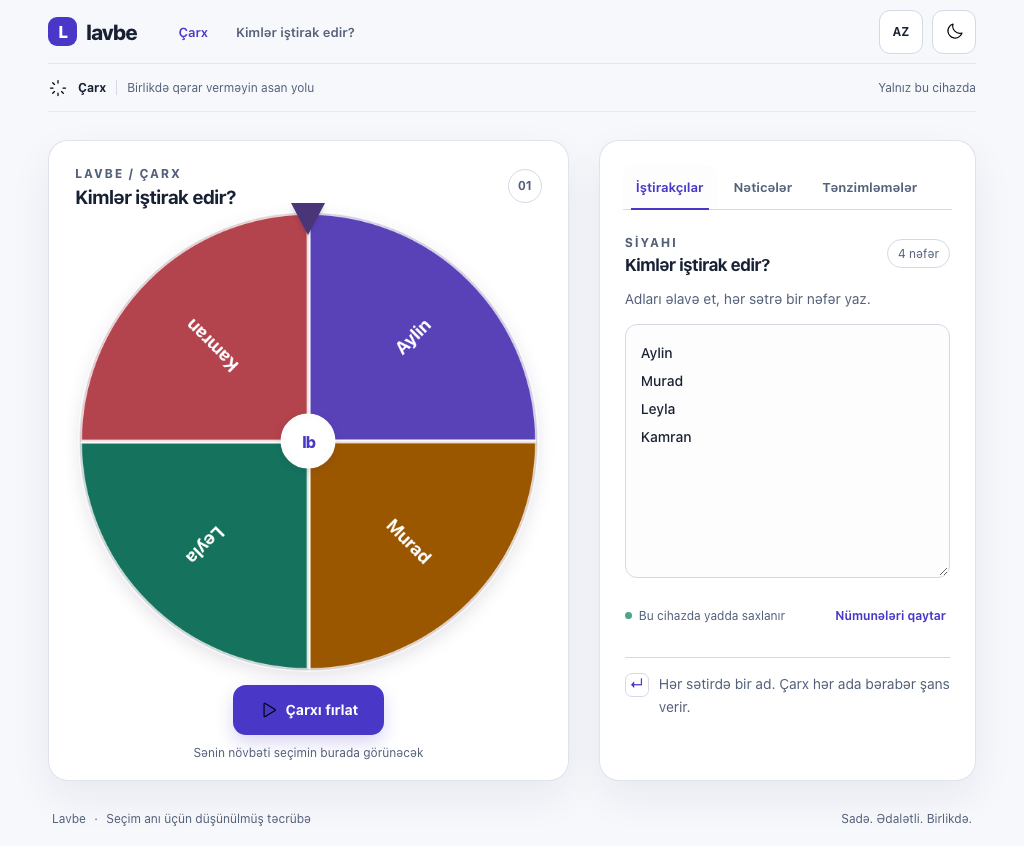
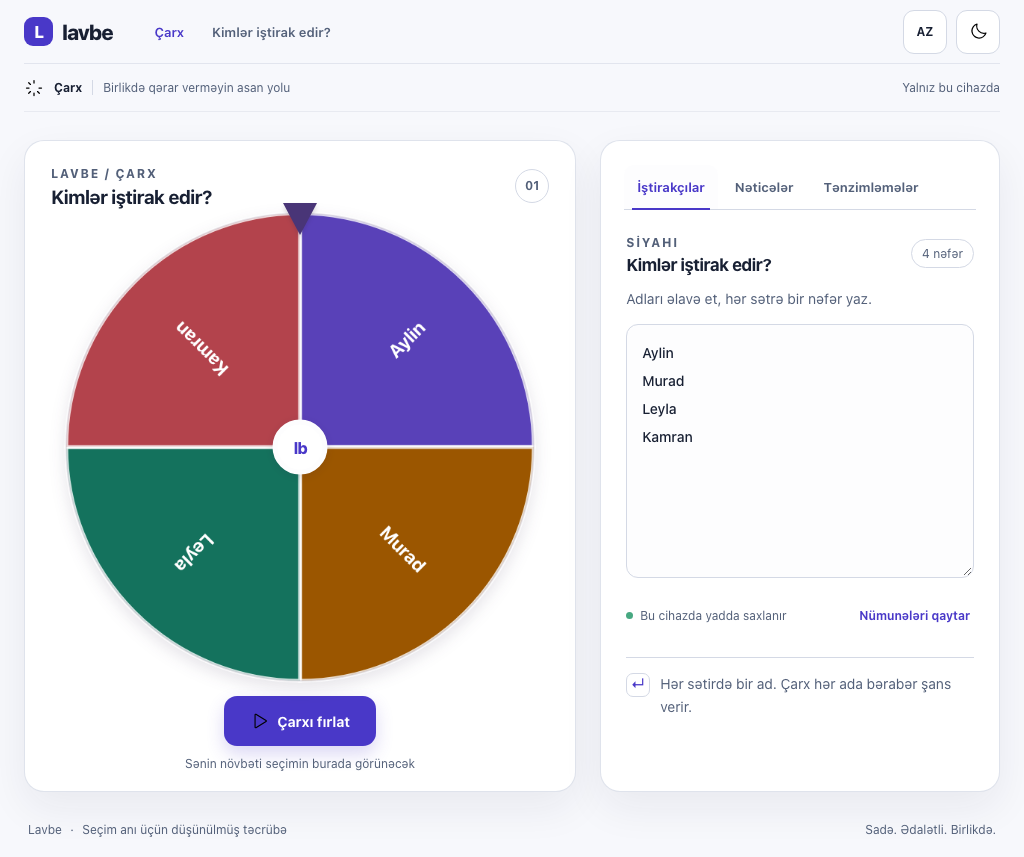
fix: preserve tablet landscape workspace ratio

diff --git a/apps/web/src/styles/global.css b/apps/web/src/styles/global.css
@@ -2,7 +2,7 @@
 :root[data-theme="dark"]{--canvas-token:#10131E;--surface-token:#1B2132;--text-token:#F2F4FC;--muted-token:#B8C2D8;--primary-token:#B6ACFF;--on-primary:#18113C;--border-token:#46516B;--focus-token:#AFCBFF;--soft:#222a3d;--shadow:0 16px 42px rgba(0,0,0,.2);color-scheme:dark}
 *{box-sizing:border-box}body{margin:0;min-width:320px;min-height:100vh;background:var(--canvas);color:var(--ink);transition:background .16s,color .16s}.shell{max-width:1280px;margin:auto;padding:0 48px}.topbar{height:64px;display:flex;align-items:center;border-bottom:1px solid color-mix(in srgb,var(--line) 60%,transparent);gap:42px}.brand{text-decoration:none;color:var(--ink);font-weight:800;letter-spacing:-.8px;font-size:21px;display:flex;align-items:center;gap:9px}.brand-mark{width:29px;height:29px;border-radius:9px;display:grid;place-items:center;color:#fff;background:#4938c8;font-size:17px;font-weight:800}.topbar nav{display:flex;align-items:center;gap:28px;flex:1}.topbar nav a{font-size:13px;text-decoration:none;color:var(--muted);font-weight:600}.topbar nav .nav-active{color:var(--primary)}.header-actions{display:flex;align-items:center;gap:9px}.locale,.theme-toggle{height:44px;min-width:44px;border:1px solid var(--line);border-radius:11px;background:var(--surface);color:var(--ink);display:grid;place-items:center;font-size:12px;font-weight:700}.theme-toggle{cursor:pointer;font-size:19px}.tool-strip{height:48px;display:flex;align-items:center;gap:10px;border-bottom:1px solid color-mix(in srgb,var(--line) 45%,transparent);color:var(--muted);font-size:12px}.tool-icon{color:var(--primary);font-size:19px}.tool-name{font-weight:700;color:var(--ink)}.tool-caption{padding-left:10px;border-left:1px solid var(--line)}.tool-presence{margin-left:auto;display:flex;align-items:center;gap:7px;font-size:12px}.live-dot,.save-dot{width:7px;height:7px;border-radius:50%;background:#47a881;display:inline-block}.workspace-grid{display:grid;grid-template-columns:minmax(0,1.08fr) minmax(340px,.92fr);gap:30px;align-items:stretch;padding:28px 0 30px;min-height:calc(100vh - 180px)}.wheel-panel,.participant-panel{border:1px solid color-mix(in srgb,var(--line) 75%,transparent);border-radius:20px;background:var(--surface);box-shadow:var(--shadow)}.wheel-panel{display:flex;align-items:center;flex-direction:column;padding:22px 26px 17px}.wheel-heading{width:100%;display:flex;align-items:center;justify-content:space-between}.section-kicker{font-size:12px;letter-spacing:.15em;color:var(--muted);font-weight:750}.wheel-heading h1{font-size:19px;letter-spacing:-.45px;margin:5px 0 0}.round-badge{width:34px;height:34px;border:1px solid var(--line);border-radius:50%;display:grid;place-items:center;font-size:12px;font-weight:700;color:var(--muted)}.wheel-wrap{width:min(100%,min(480px,calc(100vh - 290px)));aspect-ratio:1;position:relative;margin:auto 0 0}.wheel-wrap canvas{display:block;width:100%;height:100%;filter:drop-shadow(0 6px 8px rgba(51,36,77,.12))}.pointer{position:absolute;z-index:2;left:50%;top:-5px;transform:translateX(-50%);width:0;height:0;border-left:17px solid transparent;border-right:17px solid transparent;border-top:32px solid #493577;filter:drop-shadow(0 3px 2px rgba(38,25,65,.16))}.wheel-center{position:absolute;left:50%;top:50%;transform:translate(-50%,-50%);height:55px;width:55px;border-radius:50%;background:var(--surface);border:5px solid var(--soft);display:grid;place-items:center;box-shadow:0 2px 8px #31244422;color:var(--primary);font-weight:800;font-size:16px;letter-spacing:-1px}.spin-button{margin-top:10px;border:0;border-radius:13px;background:var(--primary);color:var(--on-primary);min-height:50px;padding:0 26px;font:700 14px ui-sans-serif,system-ui,sans-serif;display:flex;align-items:center;gap:9px;box-shadow:0 8px 18px color-mix(in srgb,var(--primary) 20%,transparent);cursor:pointer;transition:transform .14s,filter .14s}.spin-button:hover{filter:brightness(.94);transform:translateY(-1px)}.spin-button:focus-visible,.theme-toggle:focus-visible,button:focus-visible,a:focus-visible,textarea:focus-visible{outline:3px solid var(--focus-token,#2459C4);outline-offset:3px}.spin-button:disabled{opacity:.6;cursor:not-allowed}.wheel-note{font-size:12px;color:var(--muted);margin:10px 0 0;min-height:18px;text-align:center}.spin-icon{flex:none}.participant-panel{padding:24px 25px;display:flex;flex-direction:column}.workspace-heading{display:flex;justify-content:space-between;align-items:center}.workspace-heading h2{font-size:17px;letter-spacing:-.4px;margin:5px 0 0}.count{font-size:12px;color:var(--muted);border:1px solid var(--line);border-radius:20px;padding:6px 10px}.editor-hint{font-size:14px;line-height:1.6;color:var(--muted);margin:13px 0 14px}.participant-panel textarea{resize:vertical;width:100%;border:1px solid var(--line);background:var(--soft);border-radius:12px;padding:14px 15px;color:var(--ink);font:500 14px/2 ui-sans-serif,system-ui,sans-serif;min-height:192px}.list-footer{display:flex;justify-content:space-between;align-items:center;margin-top:12px;color:var(--muted);font-size:12px;gap:8px}.list-footer>span{display:flex;gap:7px;align-items:center}.list-footer button{border:0;background:none;color:var(--primary);font:650 12px ui-sans-serif,system-ui,sans-serif;cursor:pointer;min-height:44px;padding:0 4px}.editor-divider{height:1px;background:var(--line);margin:20px 0 15px}.participant-tip{display:flex;align-items:flex-start;gap:10px;color:var(--muted);font-size:14px;line-height:1.6}.tip-icon{width:24px;height:24px;border:1px solid var(--line);border-radius:7px;display:grid;place-items:center;flex:none;color:var(--primary);font-weight:700}footer{display:flex;justify-content:space-between;padding:0 4px 20px;color:var(--muted);font-size:12px}.footer-sep{padding:0 5px}.sr-only{position:absolute;width:1px;height:1px;padding:0;margin:-1px;overflow:hidden;clip:rect(0,0,0,0);white-space:nowrap;border:0}
 :root[data-theme="dark"] .theme-toggle img,:root[data-theme="dark"] .tool-icon{filter:invert(1)}
-@media(min-width:901px) and (max-width:1199px){.workspace-grid{grid-template-columns:58fr 42fr;gap:30px}}
+@media(min-width:901px) and (max-width:1199px){.shell{padding:0 24px}.workspace-grid{grid-template-columns:58fr 42fr;gap:24px}}
 @media(min-width:1200px){.workspace-grid{grid-template-columns:minmax(0,1.12fr) minmax(380px,.88fr);gap:34px}}
 @media(max-width:900px){.shell{padding:0 24px}.workspace-grid{grid-template-columns:58fr 42fr;gap:18px}.wheel-panel{padding:20px}.participant-panel{padding:22px 20px}.wheel-wrap{width:min(100%,min(420px,calc(100vh - 280px)))}}
 @media(min-width:651px) and (max-width:820px){.workspace-grid{display:flex;flex-direction:column;align-items:center}.wheel-panel,.participant-panel{width:100%;max-width:614px}.wheel-wrap{width:min(100%,560px)}}
